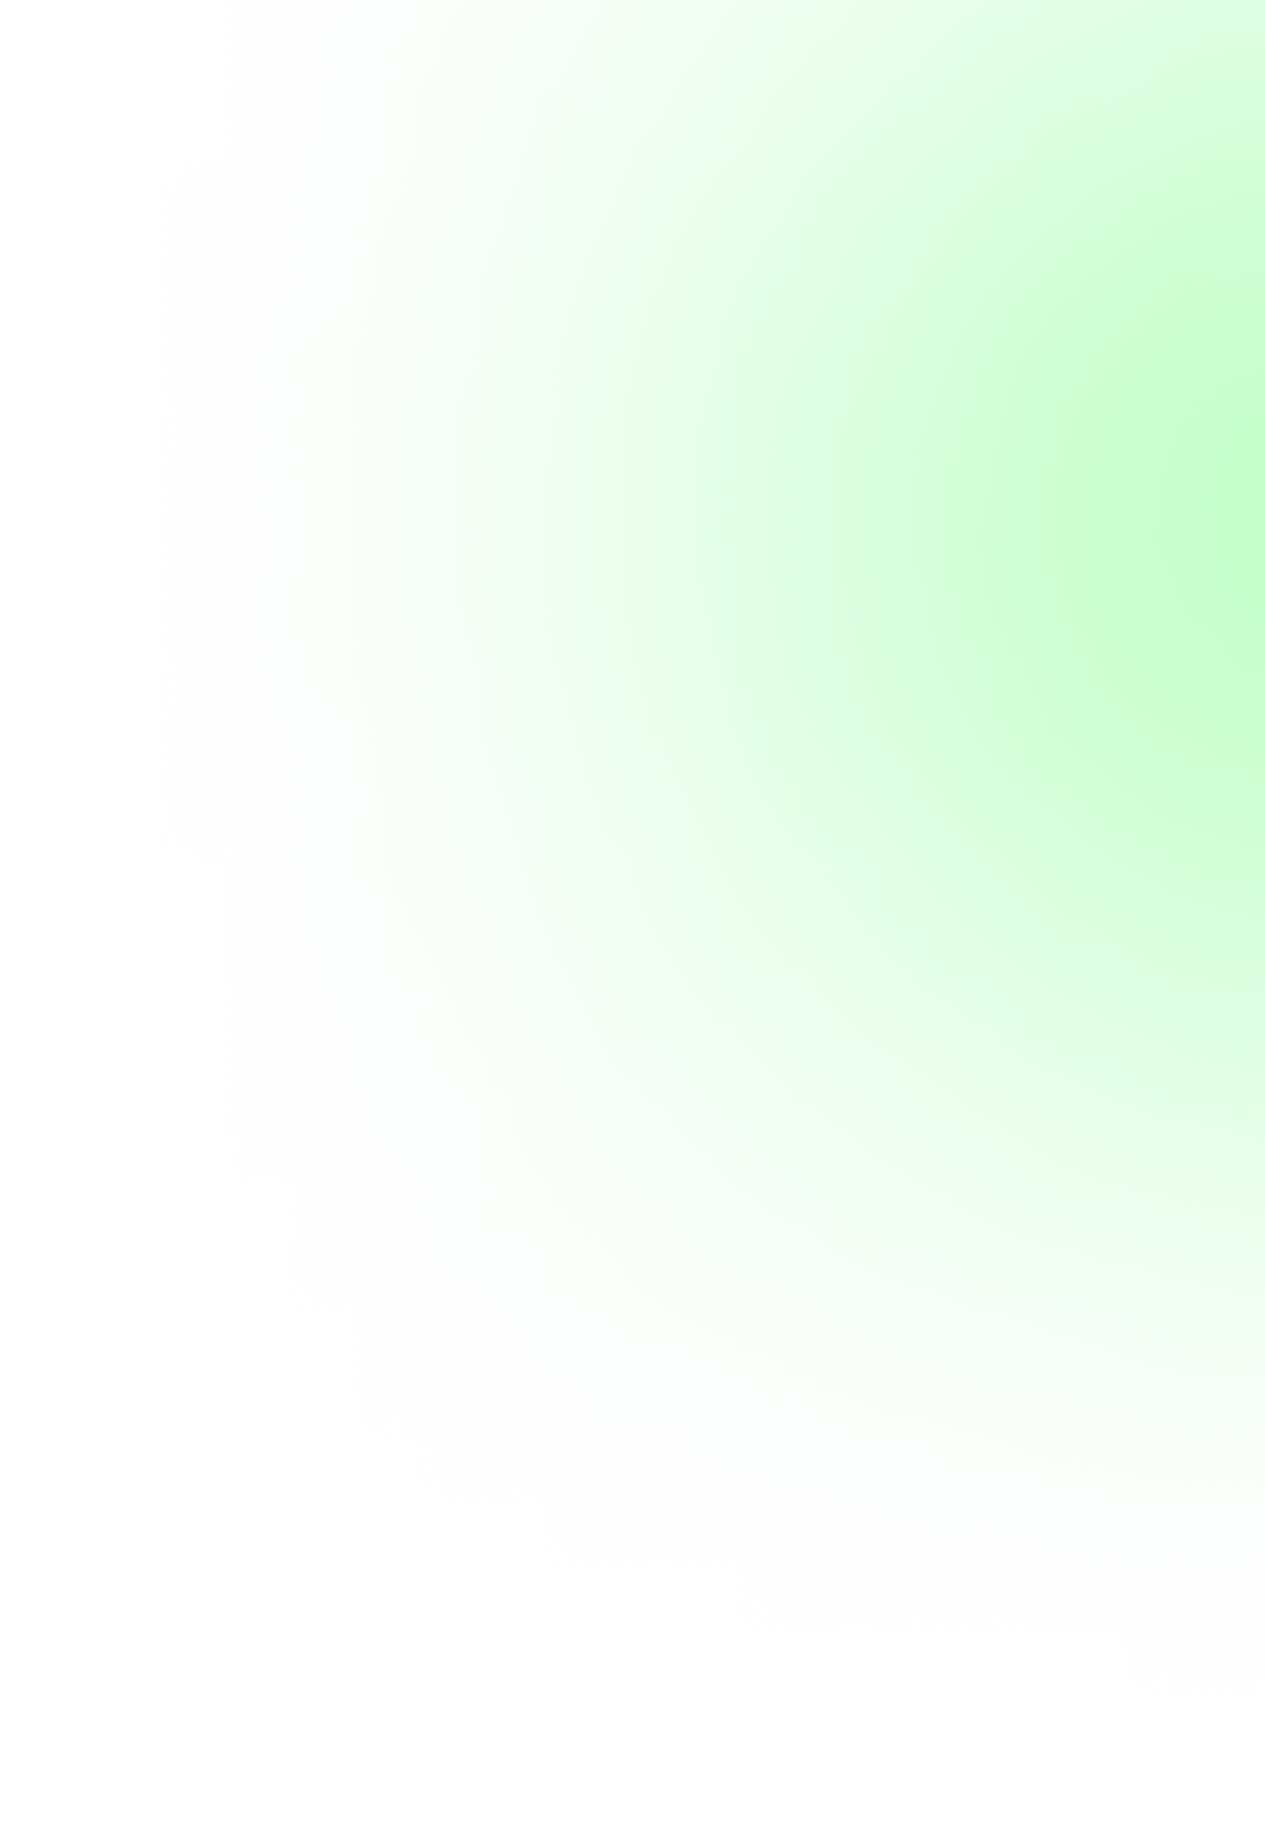
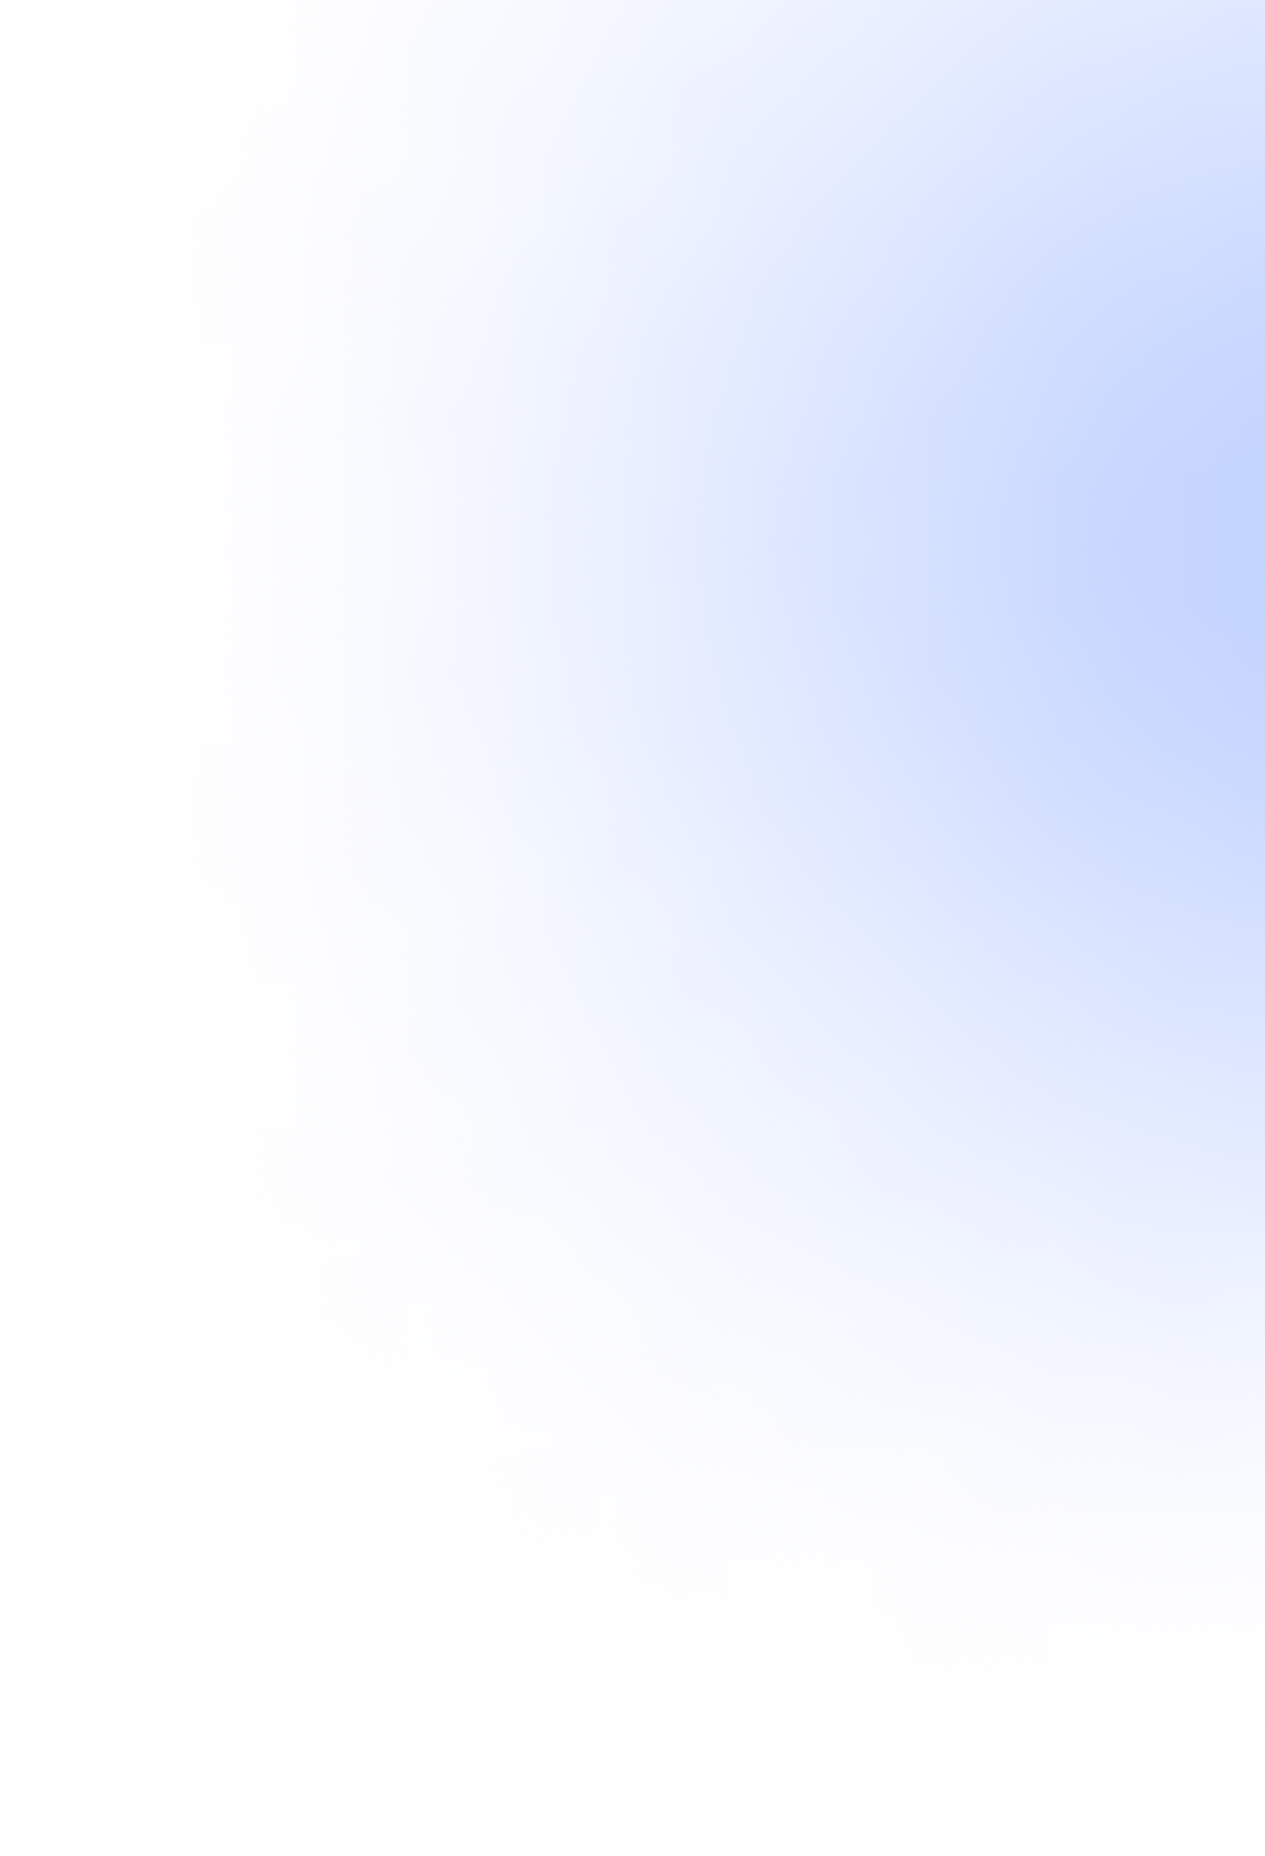
:bug: fix: Mudança de nome e ID visual

Changed region(s): [[0.5549, 0.0, 1.0, 0.6219]]

diff --git a/css/style.css b/css/style.css
@@ -53,7 +53,7 @@ nav {
   height: 2px;
 
   width: auto;
-  background: #00FF1A;
+  background: blue;
   transition: width 0.5s, opacity 0.3s; /* Transição suave da altura e opacidade */
   opacity: 0; /* Inicialmente invisível */
   border-radius: 50%;
@@ -104,7 +104,7 @@ a {
     left: 0;
     width: 100%;
     height: 2px; /* espessura da linha */
-    background: linear-gradient(to right, transparent, #00FF1A, transparent);
+    background: linear-gradient(to right, transparent, blue, transparent);
 }
 
 .container-home{
@@ -130,7 +130,7 @@ a {
 
 .texto-home p .green-text{
     font-weight: bold;
-    background-image: linear-gradient(to right, #02b614, #00FF1A);
+    background-image: linear-gradient(to right, rgb(2, 2, 141),blue);
     -webkit-background-clip: text;  /* Suporte para Webkit (Chrome, Safari, Edge) */
     background-clip: text;  /* Para outros navegadores */
     color: transparent;
@@ -140,7 +140,7 @@ a {
 .botao-home a{
     font-size: 1.2vw;
     font-weight: bolder;
-    background-image: linear-gradient(to right, #04B916, #01810D);
+    background-image: linear-gradient(to right, rgb(2, 2, 141), blue);
     padding: 0.6vw 3.7vw;
     font-family: "Roboto", sans-serif;
     border-radius: 0 0.7vw 0.7vw 0.7vw;
@@ -202,7 +202,7 @@ a {
     top: 0;
     height: 100%; /* Alinhamento na altura do texto */
     width: 2px; /* Espessura da linha */
-    background-color: green;
+    background-color: blue;
 }
 
 .texto-qs p{
